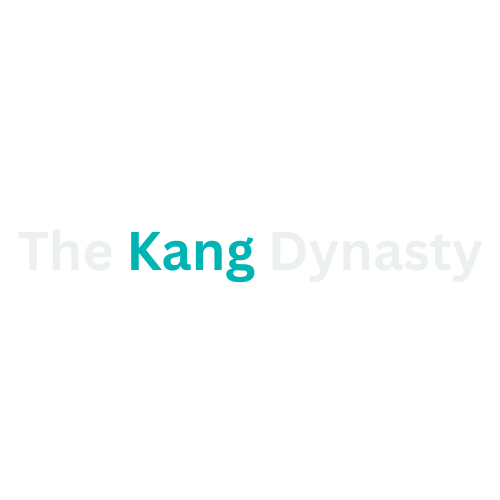
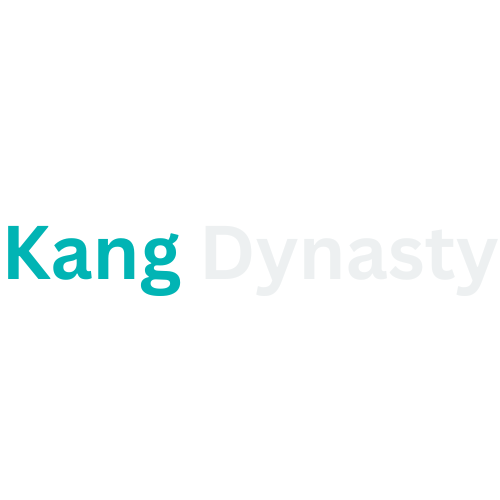
Updated photos and restructured my CSS design and added comments to separate my work so I dont get lost

Changed region(s): [[0.0, 0.45, 0.51, 0.6]]

diff --git a/style.css b/style.css
@@ -1,82 +1,102 @@
 @import url('https://fonts.googleapis.com/css2?family=Luxurious+Script&family=Montserrat:wght@500&display=swap');
+/*-------Main Structure of webpage-------- */
 *{
     box-sizing: border-box;
     margin: 0;
     padding:0;
-    background-color: black;
     font-family:'Montserrat',sans-serif;
     color: #edf0f1;
  }
+body{
+background: black;
+ }
+/*--------NavBar---------*/
 .hero{
-height: 150vh;
+height: 100vh;
 width:100%;
-background-image: url(https://i.pinimg.com/originals/a6/65/46/a665463e60ef772c82286e4ee6a15353.gif);
+background-image:url(images/wp6899569-dark-mountain-wallpapers.jpg);
+background-size: cover;
 background-position: center;
-background-repeat: no-repeat;
-background-size: 70%;
 color: #edf0f1;
 padding: 0 8%;
 }
-
-#intro{
-    color: #edf0f1;
-    font-size: 75px;
-    text-align: center;
-}
-
-.nav_main h1{
-    margin-right:auto;
-    font-size: 50px;
-    cursor: pointer;
-}
-
-.nav_main h1 .lio{
-    color: rgba(1, 180,180);
-}
-
-li, a, button{
-    font-weight: 500;
-    font-size: 22px;
-    text-decoration: none;
-}
-
 .nav_main{
+    padding: 10x 10%;
+    font-size: 16px;
+}
+nav{
     display: flex;
-    justify-content: right;
     align-items: center;
-    padding: 30px 10%;
+    justify-content: space-between;
+    flex-wrap: wrap;
 }
 
-.Nav_Links{
-    list-style: none;
-    margin-left: 20%;
-} 
+.logo{
+    width: 250px;
+}
 
-.Nav_Links li{
+nav ul li {
     display: inline-block;
-    padding: 0px 20px;
+    list-style: none;
+    margin: 10px 20px;
 }
-
-.Nav_links li, a:hover{
-    color: rgb(1,180,180);
+nav ul li a{
+    text-decoration: none;
+    font-size: 20px;
+    position: relative;
+}
+nav ul li a::after{
+    content: '';
+    width: 0%;
+    height: 3px;
+    background: #01b4b4;
+    position: absolute;
+    left: 0;
+    bottom: -6px;
+}
+nav ul li a:hover::after{
+    width: 100%;
+    transition: 0.5s;
+}
+.header-text{
+    margin-top: 5%;
+    margin-right:0;
+    font-size: 30px;
+}
+.header-text h1{
+    font-size: 60px;
+    margin-top: 20px;
+}
+.header-text span{
+    color: #01b4b4;
+}
+/* -------------About Me-------------- */
+#About-Me{
+    padding: 80px 0;
+    color: #edf0f1 ;
+}
+.about-col-1 img{
+    width: 100%;
+    height: auto;
+    border-radius: 15px;
+    margin-left: 20%;
+}
+.row{
+    display: flex;
+    justify-content: space-between;
+    flex-wrap: wrap;
+}
+.about-col-1{
+    flex-basis: 35%;
+}
+.about-col-2{
+    flex-basis: 50%;
+}
+.subtext{
+    font-size: 60px;
     font-weight: 500;
 }
-
-button{
-    margin-left: 10px;
-    padding: 9px 25px;
-    background-color: rgb(1, 180, 180);
-    border: none;
-    border-radius: 50px;
-    cursor: pointer;
-    transition: all 0.3s ease 0s;
-}
-
-button:hover{
-    background-color: rgba(1, 180,180, .7);
-} 
-
-.Mini-img{
+/* .Mini-img{
     width: 150px;
     height: auto;
 }
@@ -104,4 +124,4 @@ button:hover{
 .Mini-img{
     width: 297px;
     height: 200px;
-}
+} */

diff --git a/index.html b/index.html
@@ -11,36 +11,44 @@
 <body>    
     <header class="hero">
         <nav class="nav_main">
-            <h1>Portfo<span class="lio">lio</span></h1>
+            <img src="Images/The Kang Dynasty.png" alt="Kang Dynasty logo" class="logo">
             <ul class="Nav_Links">
-                <li><a href="#About Me">About Me</a></li>
+                <li><a href="#About-Me">About Me</a></li>
                 <li><a href="#Projects">Projects</a></li>
+                <li><a href="#Contact">Contact</a></li>
             </ul>
-            <a class=contact href="Contact"><button>Contact</button></a>
         </nav>
-        <h1 id="intro">Ryan Kang</h1>   
+        <section class="header-text">
+           <p>DU Bootcamp Student</p>
+           <h1>Hi, I'm Ryan <span>Kang</span></h1> 
+        </section>
     </header>
-
-    
+   
 <main>
-    <section id="About Me" class="Subsections">
-        <h1>About Me</h1>
-        <p>I am a student in DU Coding bootcamp, learning full-stack web development, and this is my first portfolio!</p>
+ <!---------About Me---------->   
+    <section id="About-Me" class="Subsections">
+        <div class="container">
+            <div class="row">
+                <div class="about-col-1">
+                    <img src="Images/Selfie.png" alt="Self portrait of me">
+                </div>
+                <div class="about-col-2">
+                    <h2 class="subtext">About Me</h2>
+                </div>
+            </div>
+        </div>
     </section>
 
     <section id="Projects" class="Subsections">
-        <h2>Work</h2>
-        <div class="Works-Container">
-        <img class="Main-Prj" src="https://images.unsplash.com/photo-1501618669935-18b6ecb13d6d?ixlib=rb-4.0.3&ixid=MnwxMjA3fDB8MHxwaG90by1wYWdlfHx8fGVufDB8fHx8&auto=format&fit=crop&w=1149&q=80">
+        <h2>Projects</h2>
+        <!-- <div class="Works-Container">
+        <img class="Main-Prj" 
         <div class="sub-container">
-        <img class= "Mini-img" src="https://images.unsplash.com/photo-1597733336794-12d05021d510?ixlib=rb-4.0.3&ixid=MnwxMjA3fDB8MHxwaG90by1wYWdlfHx8fGVufDB8fHx8&auto=format&fit=crop&w=1074&q=80">
-        <img class= "Mini-img" src="https://images.unsplash.com/photo-1571666521805-f5e8423aba9d?ixlib=rb-4.0.3&ixid=MnwxMjA3fDB8MHxwaG90by1wYWdlfHx8fGVufDB8fHx8&auto=format&fit=crop&w=1170&q=80">
-        <img class= "Mini-img" src="https://images.unsplash.com/photo-1636654129379-e7ae6f30bfd0?ixlib=rb-4.0.3&ixid=MnwxMjA3fDB8MHxwaG90by1wYWdlfHx8fGVufDB8fHx8&auto=format&fit=crop&w=764&q=80">
-        <img class= "Mini-img" src="https://images.unsplash.com/photo-1636654129379-e7ae6f30bfd0?ixlib=rb-4.0.3&ixid=MnwxMjA3fDB8MHxwaG90by1wYWdlfHx8fGVufDB8fHx8&auto=format&fit=crop&w=764&q=80">
-        </div> 
+        <img class= "Mini-img" 
+        </div>  -->
     </section>
 
-    <section class="Subsections">
+    <section id="Contact" class="Subsections">
         <h2>Contact Me</h2>
     </section>
 
